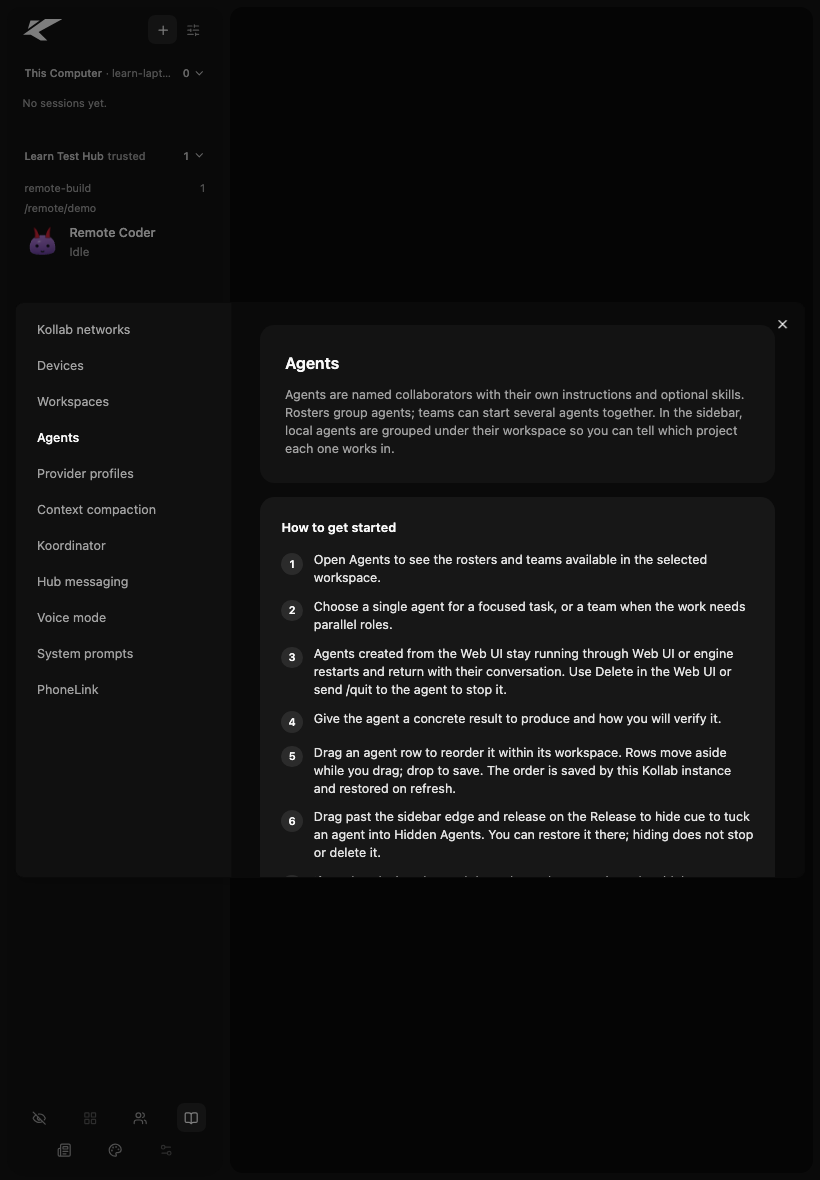
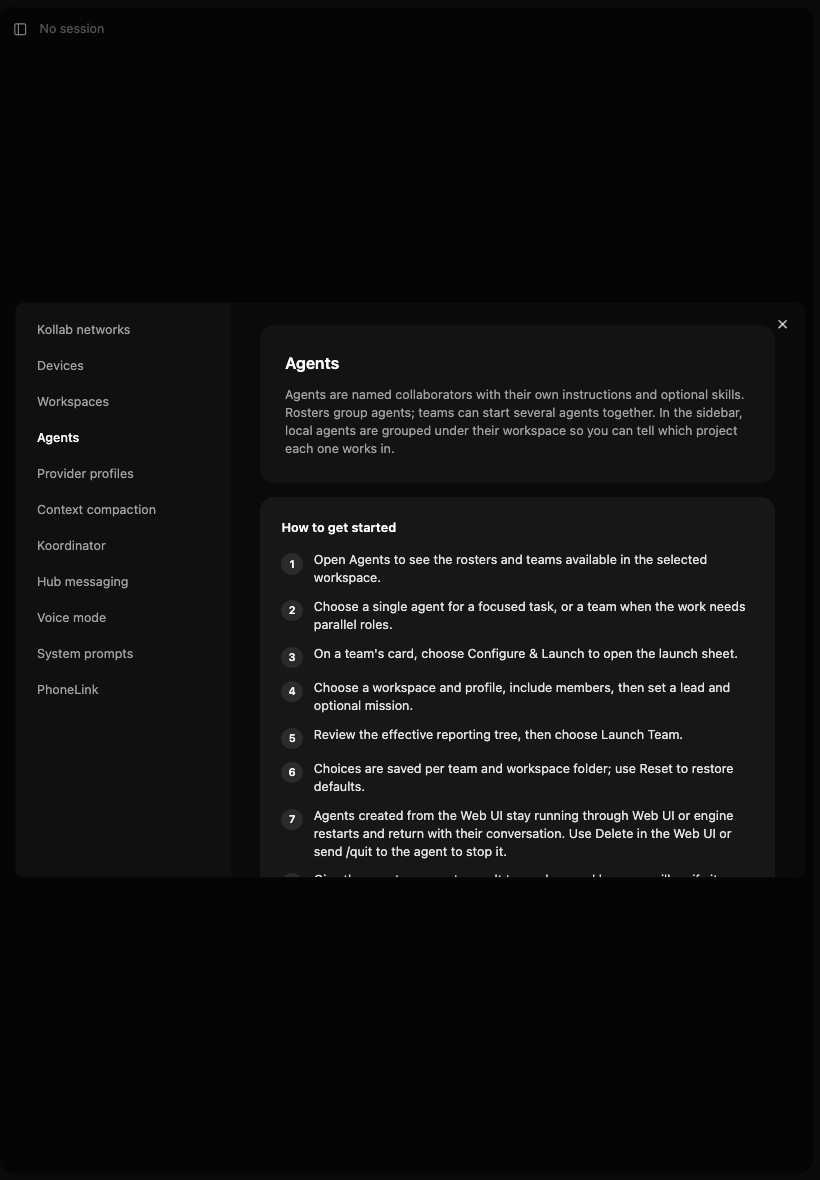
fix(webui): harden sidebar agent type glyphs

diff --git a/packages/kollabor-webui/frontend/tests/agent-type-glyph.test.tsx b/packages/kollabor-webui/frontend/tests/agent-type-glyph.test.tsx
@@ -42,6 +42,10 @@ describe("AgentTypeGlyph", () => {
     expect(resolveSidebarAgentType({ agent_type: "", agent: "coder" }, "default")).toBe("coder");
   });
 
+  it("uses the session bundle when a present roster entry has blank type fields", () => {
+    expect(resolveSidebarAgentType({ agent_type: "", agent: "" }, " research ")).toBe("research");
+  });
+
   it("uses default only for a present roster entry with an empty type and bundle", () => {
     expect(resolveSidebarAgentType({ agent_type: "", agent: "" })).toBe("default");
     expect(resolveSidebarAgentType(undefined, "coder")).toBe("coder");
@@ -56,6 +60,13 @@ describe("AgentTypeGlyph", () => {
     expect(markup).toContain('aria-label="research"');
     expect(markup).toContain("text-[0.75em]");
     expect(markup).toContain("text-muted-foreground");
+  });
+
+  it.each(["constructor", "__proto__"])("treats %s as an unknown type", (type) => {
+    const markup = renderToStaticMarkup(<AgentTypeGlyph type={type} />);
+    expect(markup).toContain("◇");
+    expect(markup).toContain(`title="${type}"`);
+    expect(markup).toContain(`aria-label="${type}"`);
   });
 
   it("uses a generic labeled glyph for unknown types and omits missing types", () => {

diff --git a/packages/kollabor-webui/frontend/src/learn/catalog.ts b/packages/kollabor-webui/frontend/src/learn/catalog.ts
@@ -59,7 +59,6 @@ export const LEARN_TOPICS = [
       "Agents are named collaborators with their own instructions and optional skills. Rosters group agents; teams can start several agents together. In the sidebar, local agents are grouped under their workspace so you can tell which project each one works in.",
     howTo: [
       "Open Agents to see the rosters and teams available in the selected workspace.",
-      "The small muted mark after a local or offline agent name identifies its bundle; hover to see the full name, which screen readers also announce. Remote rows omit the mark because network data does not include a bundle type.",
       "Choose a single agent for a focused task, or a team when the work needs parallel roles.",
       "On a team's card, choose Configure & Launch to open the launch sheet.",
       "Choose a workspace and profile, include members, then set a lead and optional mission.",

diff --git a/packages/kollabor-webui/frontend/src/components/shell/AgentTypeGlyph.tsx b/packages/kollabor-webui/frontend/src/components/shell/AgentTypeGlyph.tsx
@@ -37,15 +37,18 @@ export function resolveSidebarAgentType(
   entry?: AgentTypeSource,
   fallback?: string,
 ): string | undefined {
-  if (!entry) return nonBlank(fallback);
-  return nonBlank(entry.agent_type) ?? nonBlank(entry.agent) ?? "default";
+  const entryType = nonBlank(entry?.agent_type) ?? nonBlank(entry?.agent);
+  return entryType ?? nonBlank(fallback) ?? (entry ? "default" : undefined);
 }
 
 export function AgentTypeGlyph({ type }: { type?: string }) {
   const label = nonBlank(type);
   if (!label) return null;
 
-  const glyph = AGENT_TYPE_GLYPHS[label.toLowerCase()] ?? UNKNOWN_AGENT_TYPE_GLYPH;
+  const normalizedType = label.toLowerCase();
+  const glyph = Object.prototype.hasOwnProperty.call(AGENT_TYPE_GLYPHS, normalizedType)
+    ? AGENT_TYPE_GLYPHS[normalizedType]
+    : UNKNOWN_AGENT_TYPE_GLYPH;
   return (
     <span
       aria-label={label}

diff --git a/docs/features/agents.md b/docs/features/agents.md
@@ -102,13 +102,13 @@ bundle exists.
 
 ## Sidebar Type Marks
 
-The Web UI sidebar places a small, muted glyph after each local-session or offline
-agent name to identify its bundle (for example, coder `▸`, research `◈`, or default
-`●`). Hovering the mark shows the full bundle name, which is also exposed to screen
-readers. A custom bundle still gets a generic mark with its actual name; an unknown or
-missing type is never presented as a different bundle. Network/remote rows do not show
-a type mark because their data does not include the bundle type; matching their names
-to a local roster entry could show the wrong type. The mark does not change identity,
+The Web UI Agents sidebar places a small, muted glyph after each local-session or
+offline agent name to identify its bundle (for example, coder `▸`, research `◈`, or
+default `●`). Hovering the mark shows the full bundle name, which is also exposed to
+screen readers. An unknown custom bundle gets a generic mark labeled with its actual
+type; when type metadata is missing, no mark is shown. Network/remote rows are also
+unmarked because their data does not include a bundle type; matching a remote name to
+a local roster entry could show the wrong type. The mark does not change identity,
 workspace grouping, or row actions.
 
 ## Hub Rosters and Teams

diff --git a/CHANGELOG.md b/CHANGELOG.md
@@ -11,7 +11,7 @@ and this project adheres to [Semantic Versioning](https://semver.org/spec/v2.0.0
 - The hub no longer permanently exhausts a conversation transport's peer request slots when the relay rejects a request for capacity: rejected slots are released, so other peers can keep talking after a capacity reject (#627).
 
 ### Added
-- Local and offline Web UI sidebar rows now show a compact, accessible glyph for their agent bundle type (#655).
+- The Web UI Agents sidebar shows a small type glyph after local-session and offline names (coder `▸`, research `◈`, default `●`); rows without type metadata and all remote rows stay unmarked (#655).
 - Hub messages addressed to the operator are delivered through ntfy as well as the terminal, so operator pings reach you even when no session is watching (#626).
 - Team launches now support member selection or exclusions across the CLI,
   TUI and Web UI. The launch sheet sets the workspace, profile, lead and

diff --git a/kollabor/updates/CHANGELOG.md b/kollabor/updates/CHANGELOG.md
@@ -11,7 +11,7 @@ and this project adheres to [Semantic Versioning](https://semver.org/spec/v2.0.0
 - The hub no longer permanently exhausts a conversation transport's peer request slots when the relay rejects a request for capacity: rejected slots are released, so other peers can keep talking after a capacity reject (#627).
 
 ### Added
-- Local and offline Web UI sidebar rows now show a compact, accessible glyph for their agent bundle type (#655).
+- The Web UI Agents sidebar shows a small type glyph after local-session and offline names (coder `▸`, research `◈`, default `●`); rows without type metadata and all remote rows stay unmarked (#655).
 - Hub messages addressed to the operator are delivered through ntfy as well as the terminal, so operator pings reach you even when no session is watching (#626).
 - Team launches now support member selection or exclusions across the CLI,
   TUI and Web UI. The launch sheet sets the workspace, profile, lead and
